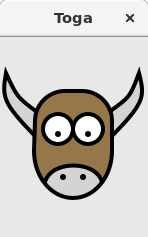
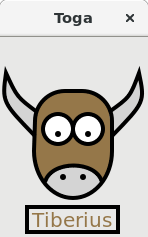
Add font styling and surrounding rectange to tutorial

diff --git a/examples/tutorial4/tutorial/app.py b/examples/tutorial4/tutorial/app.py
@@ -92,7 +92,15 @@ class StartApp(toga.App):
             self.canvas.bezier_curve_to(51, 123, 96, 123, 102, 145)
 
     def draw_text(self):
-        self.canvas.fill_text('Tiberius', 55, 10)
+        x = 32
+        y = 175
+        width, height = self.canvas.measure_text('Tiberius')
+        with self.canvas.stroke():
+            self.canvas.rect(x - 5, y - 5, width + 10, height + 10)
+        self.canvas.font = toga.Font(family='sans-serif', size=20)
+        with self.canvas.fill():
+            self.canvas.fill_style('rgba(149.0, 119, 73, 1)')
+            self.canvas.write_text('Tiberius', x, y)
 
     def draw_tiberius(self, canvas, context):
         self.canvas.set_context(context)
@@ -104,5 +112,10 @@ class StartApp(toga.App):
         self.draw_text()
 
 
-def main():
-    return StartApp('Tutorial 4', 'org.pybee.helloworld')
+if __name__ == '__main__':
+    # Application class
+    #   App name and namespace
+    app = StartApp('Tutorial 4', 'org.pybee.helloworld')
+
+    app.main_loop()
+

diff --git a/docs/tutorial/source/tutorial-4.py b/docs/tutorial/source/tutorial-4.py
@@ -92,8 +92,15 @@ class StartApp(toga.App):
             self.canvas.bezier_curve_to(51, 123, 96, 123, 102, 145)
 
     def draw_text(self):
+        x = 32
+        y = 175
+        width, height = self.canvas.measure_text('Tiberius')
+        with self.canvas.stroke():
+            self.canvas.rect(x - 5, y - 5, width + 10, height + 10)
+        self.canvas.font = toga.Font(family='sans-serif', size=20)
         with self.canvas.fill():
-            self.canvas.write_text('Tiberius', 55, 10)
+            self.canvas.fill_style('rgba(149.0, 119, 73, 1)')
+            self.canvas.write_text('Tiberius', x, y)
 
     def draw_tiberius(self, canvas, context):
         self.canvas.set_context(context)
@@ -111,3 +118,4 @@ if __name__ == '__main__':
     app = StartApp('Tutorial 4', 'org.pybee.helloworld')
 
     app.main_loop()
+

diff --git a/docs/tutorial/tutorial-4.rst b/docs/tutorial/tutorial-4.rst
@@ -3,8 +3,8 @@ Let's draw on a canvas! (Gtk+ only for now, help needed!)
 =====================================
 
 One of the main capabilities needed to create many types of GUI applications is
-the ability to draw and manipulate lines, shapes, and other graphics. To do this
-in Toga, we use the Canvas Widget.
+the ability to draw and manipulate lines, shapes, text, and other graphics. To
+do this in Toga, we use the Canvas Widget.
 
 Utilizing the Canvas is easy as determining the drawing operations you want to
 perform, placing them in a function, and then creating a new Canvas while
